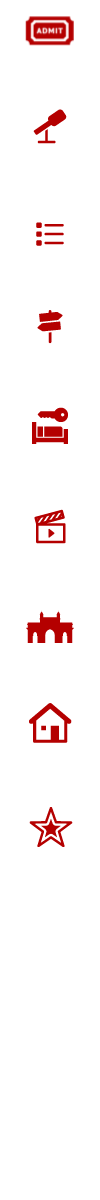
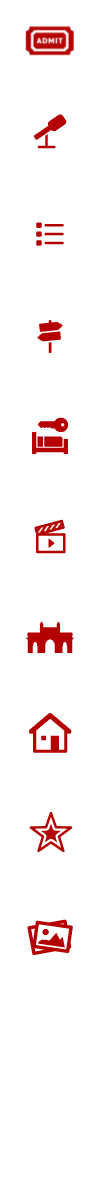
Added photos page: round draft

diff --git a/2012/assets/application.css b/2012/assets/application.css
@@ -576,16 +576,13 @@ header p#twitter a {
 }
 
 nav {
-  clear: both;
-  margin-left: 1.37%;
-  margin-right: 1.37%;
   overflow: hidden;
   *zoom: 1;
+  width: 100%;
   position: relative;
   background: white;
-  -moz-box-shadow: 0 0 5px rgba(0, 0, 0, 0.3);
   -webkit-box-shadow: 0 0 5px rgba(0, 0, 0, 0.3);
-  -o-box-shadow: 0 0 5px rgba(0, 0, 0, 0.3);
+  -moz-box-shadow: 0 0 5px rgba(0, 0, 0, 0.3);
   box-shadow: 0 0 5px rgba(0, 0, 0, 0.3);
 }
 nav ul {
@@ -601,12 +598,14 @@ nav ul a {
   float: left;
   width: 32.394%;
   margin-right: 1.408%;
-  -moz-transition-property: length;
   -webkit-transition-property: length;
+  -moz-transition-property: length;
+  -ms-transition-property: length;
   -o-transition-property: length;
   transition-property: length;
-  -moz-transition-duration: 2s;
   -webkit-transition-duration: 2s;
+  -moz-transition-duration: 2s;
+  -ms-transition-duration: 2s;
   -o-transition-duration: 2s;
   transition-duration: 2s;
   text-align: center;
@@ -615,7 +614,7 @@ nav ul a {
   border: none;
   line-height: 36px;
 }
-nav ul a.directions {
+nav ul a.directions, nav ul a.photos {
   display: inline;
   float: right;
   margin-right: 0;
@@ -647,6 +646,9 @@ nav ul a.index {
 }
 nav ul a.sponsors {
   background-position: center -800px;
+}
+nav ul a.photos {
+  background-position: center -900px;
 }
 body#page_index nav ul a.index, body#page_talks nav ul a.talks, body#page_schedule nav ul a.schedule, body#page_directions nav ul a.directions, body#page_badges nav ul a.badges, body#page_sponsors nav ul a.sponsors, nav ul a:hover {
   background-color: #ffffaa;
@@ -733,12 +735,25 @@ footer a {
 }
 @media screen and (min-width: 960px) {
   nav {
-    -moz-border-radius: 4px;
     -webkit-border-radius: 4px;
-    -o-border-radius: 4px;
+    -moz-border-radius: 4px;
     -ms-border-radius: 4px;
-    -khtml-border-radius: 4px;
+    -o-border-radius: 4px;
     border-radius: 4px;
+  }
+  nav ul li:first-child a {
+    -webkit-border-radius: 4px 0 0 4px;
+    -moz-border-radius: 4px 0 0 4px;
+    -ms-border-radius: 4px 0 0 4px;
+    -o-border-radius: 4px 0 0 4px;
+    border-radius: 4px 0 0 4px;
+  }
+  nav ul li:last-child a {
+    -webkit-border-radius: 0 4px 4px 0;
+    -moz-border-radius: 0 4px 4px 0;
+    -ms-border-radius: 0 4px 4px 0;
+    -o-border-radius: 0 4px 4px 0;
+    border-radius: 0 4px 4px 0;
   }
 }
 section#index {
@@ -763,8 +778,9 @@ section#index article {
   float: left;
   width: 100%;
   margin-right: 1.408%;
-  -moz-transition-duration: 2s;
   -webkit-transition-duration: 2s;
+  -moz-transition-duration: 2s;
+  -ms-transition-duration: 2s;
   -o-transition-duration: 2s;
   transition-duration: 2s;
   font-size: 14px;
@@ -784,8 +800,9 @@ section#index section#sponsor_logos div {
   float: left;
   width: 100%;
   margin-right: 1.408%;
-  -moz-transition-duration: 2s;
   -webkit-transition-duration: 2s;
+  -moz-transition-duration: 2s;
+  -ms-transition-duration: 2s;
   -o-transition-duration: 2s;
   transition-duration: 2s;
   clear: right;
@@ -809,17 +826,15 @@ section#index section#sponsor_logos div article a {
   text-align: center;
   text-decoration: none;
   border: none;
-  -moz-border-radius: 12px;
   -webkit-border-radius: 12px;
-  -o-border-radius: 12px;
+  -moz-border-radius: 12px;
   -ms-border-radius: 12px;
-  -khtml-border-radius: 12px;
+  -o-border-radius: 12px;
   border-radius: 12px;
 }
 section#index section#sponsor_logos div article a:hover {
-  -moz-box-shadow: 0 0 10px rgba(255, 255, 170, 0.4);
   -webkit-box-shadow: 0 0 10px rgba(255, 255, 170, 0.4);
-  -o-box-shadow: 0 0 10px rgba(255, 255, 170, 0.4);
+  -moz-box-shadow: 0 0 10px rgba(255, 255, 170, 0.4);
   box-shadow: 0 0 10px rgba(255, 255, 170, 0.4);
 }
 section#index section#sponsor_logos div article a span {
@@ -927,15 +942,13 @@ section#talks article div.speaker div.photo {
   width: 128px;
   height: 148px;
   margin: -20px 10px 0 0;
-  -moz-border-radius: 0 4px 4px 0;
   -webkit-border-radius: 0 4px 4px 0;
-  -o-border-radius: 0 4px 4px 0;
+  -moz-border-radius: 0 4px 4px 0;
   -ms-border-radius: 0 4px 4px 0;
-  -khtml-border-radius: 0 4px 4px 0;
+  -o-border-radius: 0 4px 4px 0;
   border-radius: 0 4px 4px 0;
-  -moz-box-shadow: 0 0 8px rgba(0, 0, 0, 0.3);
   -webkit-box-shadow: 0 0 8px rgba(0, 0, 0, 0.3);
-  -o-box-shadow: 0 0 8px rgba(0, 0, 0, 0.3);
+  -moz-box-shadow: 0 0 8px rgba(0, 0, 0, 0.3);
   box-shadow: 0 0 8px rgba(0, 0, 0, 0.3);
 }
 section#talks article div.speaker div.photo img {
@@ -1029,14 +1042,14 @@ section#schedule ul {
   color: #aa0000;
   background: rgba(0, 0, 0, 0.6);
   font-size: 16px;
-  -moz-border-radius: 0 50px 50px 0;
   -webkit-border-radius: 0 50px 50px 0;
-  -o-border-radius: 0 50px 50px 0;
+  -moz-border-radius: 0 50px 50px 0;
   -ms-border-radius: 0 50px 50px 0;
-  -khtml-border-radius: 0 50px 50px 0;
+  -o-border-radius: 0 50px 50px 0;
   border-radius: 0 50px 50px 0;
-  -moz-transition-duration: 2s;
   -webkit-transition-duration: 2s;
+  -moz-transition-duration: 2s;
+  -ms-transition-duration: 2s;
   -o-transition-duration: 2s;
   transition-duration: 2s;
 }
@@ -1048,8 +1061,9 @@ section#schedule ul li {
   height: 20px;
   line-height: 20px;
   border-bottom: solid 1px rgba(0, 0, 0, 0.4);
-  -moz-transition-duration: 2s;
   -webkit-transition-duration: 2s;
+  -moz-transition-duration: 2s;
+  -ms-transition-duration: 2s;
   -o-transition-duration: 2s;
   transition-duration: 2s;
 }
@@ -1120,11 +1134,10 @@ section#schedule ul li em {
     height: 24px;
     text-align: center;
     line-height: 26px;
-    -moz-border-radius: 20px;
     -webkit-border-radius: 20px;
-    -o-border-radius: 20px;
+    -moz-border-radius: 20px;
     -ms-border-radius: 20px;
-    -khtml-border-radius: 20px;
+    -o-border-radius: 20px;
     border-radius: 20px;
     background: rgba(0, 0, 0, 0.5);
   }
@@ -1148,11 +1161,10 @@ section#schedule ul li em {
     text-align: center;
   }
   section#schedule ul {
-    -moz-border-radius: 100px;
     -webkit-border-radius: 100px;
-    -o-border-radius: 100px;
+    -moz-border-radius: 100px;
     -ms-border-radius: 100px;
-    -khtml-border-radius: 100px;
+    -o-border-radius: 100px;
     border-radius: 100px;
     width: 12.5%;
     margin: 10px auto;
@@ -1195,8 +1207,9 @@ section#badges ul li {
   display: block;
 }
 section#badges ul li span {
-  -moz-transition-duration: 2s;
   -webkit-transition-duration: 2s;
+  -moz-transition-duration: 2s;
+  -ms-transition-duration: 2s;
   -o-transition-duration: 2s;
   transition-duration: 2s;
   display: inline;
@@ -1255,9 +1268,8 @@ section#directions div#map iframe {
   height: 500px;
   width: 100%;
   margin: 0;
-  -moz-box-shadow: 0 0 10px rgba(0, 0, 0, 0.8);
   -webkit-box-shadow: 0 0 10px rgba(0, 0, 0, 0.8);
-  -o-box-shadow: 0 0 10px rgba(0, 0, 0, 0.8);
+  -moz-box-shadow: 0 0 10px rgba(0, 0, 0, 0.8);
   box-shadow: 0 0 10px rgba(0, 0, 0, 0.8);
 }
 section#directions div#map a.view {
@@ -1328,4 +1340,27 @@ section#sponsors div.sponsor a {
     padding-left: 16.438%;
     padding-right: 16.438%;
   }
+}
+section#photos div.flickr_badge_image {
+  display: block;
+  float: left;
+  margin: 4px;
+  padding: 4px;
+  background: white;
+  height: 160px;
+  text-align: center;
+  width: 240px;
+}
+section#photos div.flickr_badge_image a {
+  display: block;
+  float: left;
+}
+section#photos div.flickr_badge_image img {
+  display: block;
+  max-height: 100%;
+  margin: 0 auto;
+  float: none;
+}
+section#photos div#flickr_badge_source {
+  clear: both;
 }

diff --git a/2012/photos.html b/2012/photos.html
@@ -1,0 +1,57 @@
+<!DOCTYPE html>
+<html>
+<head>
+  <title>RubyConf India 2012</title>
+  <link rel="stylesheet" href="assets/application.css" type="text/css" media="screen" charset="utf-8">
+  <meta name="viewport" content="width=device-width, initial-scale=1, maximum-scale=1, user-scalable=0" />
+  <meta name="description" content="India's third RubyConf is happening in Pune in March this year. RubyConf India is co-presented by ThoughtWorks and RubyCentral.">
+  <meta name="keywords" content="ruby rubyconf conference india" />
+  <meta name="apple-mobile-web-app-capable" content="yes" />
+  <script>
+    'article aside footer header nav section time'.replace(/\w+/g,function(n){document.createElement(n)});
+    window.addEventListener("load",function() {
+      setTimeout(function(){ window.scrollTo(0, 1); }, 0);
+    });
+  </script>
+</head>
+<body id="page_index">
+<section id="page">
+  <header>
+    <a href="index.html" class="home">
+    <h1>RubyConf India 2012</h1>
+    <h2>March 24-25 | Pune, Maharashtra</h2>
+    </a>
+    <p id="twitter">
+      follow <a href="http://twitter.com/rubyconfindia">@rubyconfindia</a><br/>
+      hashtag <a href="https://twitter.com/#!/search/%23rubyconfindia">#rubyconfindia</a>
+      <span>&nbsp;</span>
+    </p>
+  </header>
+  
+  <nav id="primary">
+    <ul>
+      <li><a class="index"      href="index.html">home</a></li>
+      <li><a class="talks"      href="talks.html"   >talks</a></li>
+      <li><a class="schedule"   href="schedule.html">schedule</a></li>
+      <li><a class="sponsors"   href="sponsors.html">sponsors</a></li>
+      <li><a class="badges"     href="badges.html"  >badges</a></li>
+      <li><a class="photos"     href="photos.html">photos</a></li>
+    </ul>
+  </nav>
+
+  <section id="photos">
+    <div id="flickr_badge_uber_wrapper"><a href="http://www.flickr.com" id="flickr_www">www.<strong style="color:#3993ff">flick<span style="color:#ff1c92">r</span></strong>.com</a><div id="flickr_badge_wrapper">
+    <script type="text/javascript" src="http://www.flickr.com/badge_code_v2.gne?show_name=1&count=40&display=latest&size=m&layout=x&source=all_tag&tag=rubyconfindia&user=91291438%40N00"></script>
+    <div id="flickr_badge_source">
+    <span id="flickr_badge_source_txt">More <a href="http://www.flickr.com/photos/tags/rubyconfindia/" class="more">photos or video tagged with rubyconfindia</a> on Flickr</span></div></div></div>
+  </section>
+</section>
+  
+  <footer>
+  designed by <a href="http://hordesoftware.com/">Arpan [horde software]</a>
+  <p>
+  site hosting sponsored  by <a href="http://www.thoughtworks.com/">ThoughtWorks Inc.</a>
+  </footer>
+</section>
+</body>
+</html>

diff --git a/2012/sass/public.scss b/2012/sass/public.scss
@@ -48,8 +48,8 @@ header{
 }
 
 nav{
-  @include full;
   @include clearfix;
+  width: 100%;
   position: relative;
   background: $white;
   @include box-shadow(0 0 5px rgba(0,0,0,0.3));
@@ -70,7 +70,8 @@ nav{
       border: none;
       line-height: 36px;
       
-      &.directions{@include omega(12);}
+      &.register{@include alpha(12);}
+      &.directions, &.photos{@include omega(12);}
 
       &.register{background-position: center 0px;}
       &.talks{background-position: center -100px;}
@@ -81,6 +82,7 @@ nav{
       &.badges{background-position: center -600px;}
       &.index{background-position: center -700px;}
       &.sponsors{background-position: center -800px;}
+      &.photos{background-position: center -900px;}
       
       body#page_index &.index,
       body#page_talks &.talks,
@@ -172,5 +174,9 @@ footer{
 }
 
 @media screen and (min-width: 960px) {
-  nav{@include border-radius(4px);}
+  nav{
+    @include border-radius(4px);
+    ul li:first-child a{@include border-radius(4px 0 0 4px);}
+    ul li:last-child a{@include border-radius(0 4px 4px 0);}
+  }
 }

diff --git a/2012/index.html b/2012/index.html
@@ -30,12 +30,12 @@
   
   <nav id="primary">
     <ul>
-      <li><a class="register"   href="http://rubyconfindia.doattend.com/" target="_blank">Register</a></li>
-      <li><a class="talks"      href="talks.html"   >Talks</a></li>
-      <li><a class="schedule"   href="schedule.html">Schedule</a></li>
-      <li><a class="sponsors"   href="sponsors.html">Sponsors</a></li>
-      <li><a class="badges"     href="badges.html"  >Badges</a></li>
-      <li><a class="directions" href="directions.html">Directions</a></li>
+      <li><a class="index"      href="index.html">home</a></li>
+      <li><a class="talks"      href="talks.html"   >talks</a></li>
+      <li><a class="schedule"   href="schedule.html">schedule</a></li>
+      <li><a class="sponsors"   href="sponsors.html">sponsors</a></li>
+      <li><a class="badges"     href="badges.html"  >badges</a></li>
+      <li><a class="photos"     href="photos.html">photos</a></li>
     </ul>
   </nav>
 

diff --git a/2012/sass/photos.scss b/2012/sass/photos.scss
@@ -1,0 +1,17 @@
+section#photos{
+  div.flickr_badge_image{
+    display: block;
+    float: left;
+    margin: 4px;
+    padding: 4px;
+    background: $white;
+    height: 160px;
+    text-align: center;
+    width: 240px;
+    
+    a{display: block; float: left;}
+    img{display: block; max-height: 100%; margin: 0 auto; float: none;}
+  }
+
+  div#flickr_badge_source{clear: both;}
+}

diff --git a/2012/sass/application.scss b/2012/sass/application.scss
@@ -12,3 +12,4 @@
 @import "badges";
 @import "directions";
 @import "sponsors";
+@import "photos";
